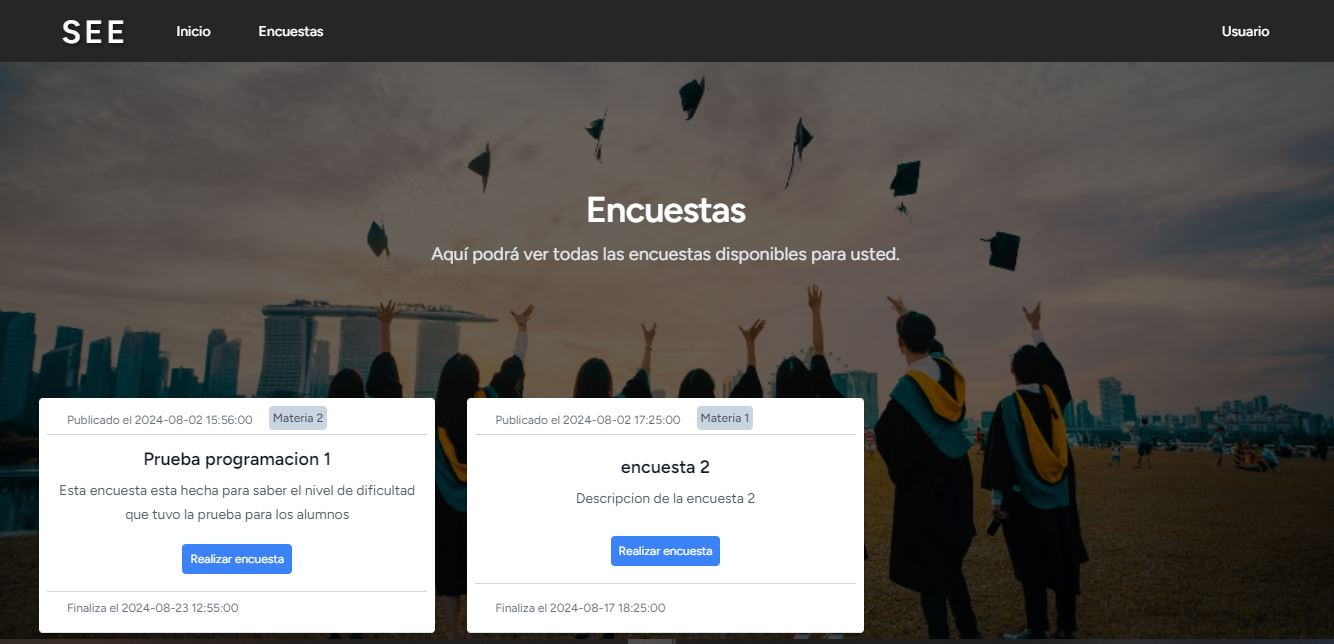
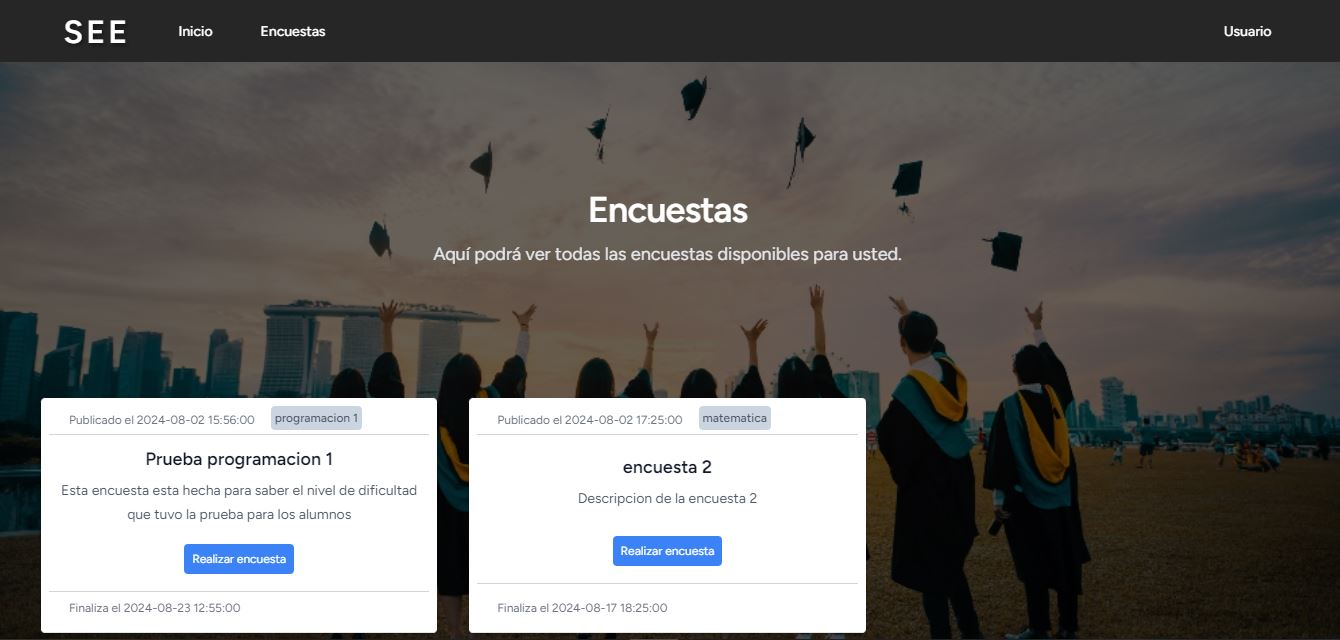
Latest changes

diff --git a/src/services/SurveysService.js b/src/services/SurveysService.js
@@ -31,9 +31,9 @@ class SurveysService{
      //obteniendo la informacion de la API 
 
      async fetchAll(){
-
+       
         try{
-             const uri= `${this.store.baseURL}/api_surveys`
+             const uri= `${this.store.baseURL}/api_surveys_user/${this.store.user_id}`
 
             const rawResponse= await fetch(uri,{
                 method:'GET',
@@ -114,10 +114,12 @@ class SurveysService{
 
 
       // Nuevo método para enviar los datos del formulario
-    async submitSurveyResponse( response) {
+    async submitSurveyResponse( response,id_survey) {
+        console.log("aca en survey",this.store.user_id)
+        console.log(response )
         try {
             
-            const url = `${this.store.baseURL}/results`;
+            const url = `${this.store.baseURL}/api_results/${this.store.user_id}/${id_survey}`;
             const res = await fetch(url, {
                 method: 'POST',
                 headers: {

diff --git a/src/views/SurveysListView.vue b/src/views/SurveysListView.vue
@@ -12,8 +12,8 @@
           class="content-data flex flex-col justify-between text-center p-5 rounded-lg shadow-md">
           <div class="flex items-center gap-x-4 text-xs border-b border-gray-300 ">
             <time :datetime="post.start_date" class="text-gray-500 pl-5">Publicado el {{ post.start_date }}</time>
-            <p class="p-1 mb-1 font-medium text-gray-600 rounded bg-slate-300">Materia {{
-              post.subject_id }}</p>
+            <p class="p-1 mb-1 font-medium text-gray-600 rounded bg-slate-300">{{
+              post.subject.name }}</p>
           </div>
 
           <div class="group relative">
@@ -47,6 +47,7 @@ import NavbarComponent from "../components/NavbarComponent.vue"
 const service = new SurveysService()
 // Obtenemos la información del servicio 
 const posts = service.getPosts()
+console.log('posts', posts)
 
 onMounted(async () => {
   await service.fetchAll()

diff --git a/src/store/auth.js b/src/store/auth.js
@@ -6,8 +6,8 @@ const useAuth= defineStore('auth',{
             token:null,
             baseURL: 'http://127.0.0.1:8000/api',
             subjects_register:null,
-            name:''
-           
+            name:'',
+           user_id:''
         }
     },
     actions:{ 
@@ -43,6 +43,8 @@ const useAuth= defineStore('auth',{
                 console.log(  "response")
                 console.log(  response)
                 this.name= response.user.name
+                this.user_id= response.user.id
+                console.log("user_id",this.user_id)
 
                 this.subjects_register=response.subjects_register
           

diff --git a/src/views/SurveyDetailView.vue b/src/views/SurveyDetailView.vue
@@ -122,6 +122,7 @@ const submitSurvey = async () => {
 
   // Clone the responses object to avoid unwanted mutations
   const response = JSON.parse(JSON.stringify(responses.value));
+  
 
   // Remove empty responses
   Object.keys(response).forEach(key => {
@@ -133,7 +134,7 @@ const submitSurvey = async () => {
   });
 
   console.log(response);
-  const result = await service.submitSurveyResponse(response);
+  const result = await service.submitSurveyResponse(response,survey.value.id);
   console.log(result);
 
   if (result.success) {

diff --git a/src/services/AuthService.js b/src/services/AuthService.js
@@ -5,6 +5,7 @@ class AuthService{
     constructor(){
         this.jwt= ref('')
         this.error= ref('')
+        this.user_id= ref('')
 
     
     }
@@ -47,6 +48,7 @@ class AuthService{
             }else if ('token' in response) {
                 console.log('Login success'); // Add this line for debugging
                 this.jwt.value = response.token;
+                this.user_id= response.user.id;
                 return true;
             } 
        
